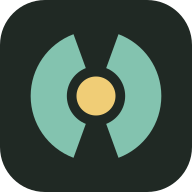
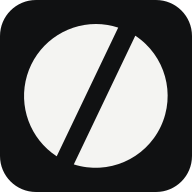
Refine Ithy.ai with a sharper monochrome identity

diff --git a/index.html b/index.html
@@ -3,7 +3,7 @@
 <head>
   <meta charset="utf-8">
   <meta name="viewport" content="width=device-width, initial-scale=1">
-  <meta name="theme-color" content="#f4f3ed">
+  <meta name="theme-color" content="#f4f4f2">
   <title>Ithy.ai — Intelligence, put to work.</title>
   <meta name="description" content="Ithy is building a family of focused businesses with AI at their core. Distinct brands. A shared operating foundation. Useful products for real problems.">
   <link rel="canonical" href="https://ithy.ai/">
@@ -12,31 +12,31 @@
   <meta property="og:site_name" content="Ithy.ai">
   <meta property="og:title" content="Ithy.ai — Intelligence, put to work.">
   <meta property="og:description" content="A different way to build and operate businesses. AI at the core. Real outcomes at the center.">
-  <meta property="og:image" content="https://ithy.ai/social-card.png">
+  <meta property="og:image" content="https://ithy.ai/social-card.png?v=20261024b">
   <meta property="og:image:width" content="1200">
   <meta property="og:image:height" content="630">
   <meta property="og:image:alt" content="Ithy.ai. Intelligence, put to work. Distinct businesses. Shared intelligence.">
   <meta name="twitter:card" content="summary_large_image">
   <meta name="twitter:title" content="Ithy.ai — Intelligence, put to work.">
   <meta name="twitter:description" content="A family of focused businesses. A shared AI operating foundation.">
-  <meta name="twitter:image" content="https://ithy.ai/social-card.png">
+  <meta name="twitter:image" content="https://ithy.ai/social-card.png?v=20261024b">
   <meta name="twitter:image:alt" content="Ithy.ai. Intelligence, put to work.">
   <meta name="application-name" content="Ithy.ai">
-  <link rel="icon" href="favicon.ico?v=20261024" sizes="16x16 32x32 48x48">
-  <link rel="icon" href="favicon-32x32.png?v=20261024" type="image/png" sizes="32x32">
-  <link rel="icon" href="favicon.svg?v=20261024" type="image/svg+xml" sizes="any">
-  <link rel="apple-touch-icon" href="apple-touch-icon.png" sizes="180x180">
-  <link rel="mask-icon" href="assets/pinned-tab.svg" color="#347c70">
-  <link rel="manifest" href="site.webmanifest">
+  <link rel="icon" href="favicon.ico?v=20261024b" sizes="16x16 32x32 48x48">
+  <link rel="icon" href="favicon-32x32.png?v=20261024b" type="image/png" sizes="32x32">
+  <link rel="icon" href="favicon.svg?v=20261024b" type="image/svg+xml" sizes="any">
+  <link rel="apple-touch-icon" href="apple-touch-icon.png?v=20261024b" sizes="180x180">
+  <link rel="mask-icon" href="assets/pinned-tab.svg?v=20261024b" color="#303438">
+  <link rel="manifest" href="site.webmanifest?v=20261024b">
   <style>
     :root {
       color-scheme: light;
-      --paper: #f4f3ed;
-      --ink: #202924;
-      --muted: #626a63;
-      --line: #d9ddd3;
-      --accent: #347c70;
-      --lime: #f0cd76;
+      --paper: #f4f4f2;
+      --ink: #101112;
+      --muted: #626466;
+      --line: #d9dbda;
+      --accent: #303438;
+      --highlight: #eceeec;
       --serif: Georgia, 'Times New Roman', serif;
       --sans: -apple-system, BlinkMacSystemFont, 'Segoe UI', Helvetica, Arial, sans-serif;
       --mono: 'SFMono-Regular', Consolas, 'Liberation Mono', monospace;
@@ -44,7 +44,7 @@
     *, *::before, *::after { box-sizing: border-box; }
     html { scroll-behavior: smooth; scroll-padding-top: 30px; }
     body { margin: 0; background: var(--paper); color: var(--ink); font-family: var(--sans); -webkit-font-smoothing: antialiased; }
-    ::selection { color: var(--ink); background: var(--lime); }
+    ::selection { color: var(--ink); background: var(--highlight); }
     a { color: inherit; text-decoration: none; }
     a:focus-visible, button:focus-visible { outline: 2px solid var(--accent); outline-offset: 6px; }
     svg { display: block; }
@@ -85,11 +85,11 @@
     .diagram-label { font: 10px var(--mono); fill: var(--muted); letter-spacing: .1em; }
     .diagram-small { font: 9px var(--mono); fill: var(--muted); letter-spacing: .07em; }
     .diagram-brand { font: 500 39px var(--sans); fill: var(--paper); letter-spacing: -.07em; }
-    .diagram-wire { fill: none; stroke: #b9c0b3; stroke-width: 1.2; }
+    .diagram-wire { fill: none; stroke: #bfc2c0; stroke-width: 1.2; }
     .diagram-signal { fill: none; stroke: var(--accent); stroke-width: 2; stroke-dasharray: 8 440; stroke-linecap: round; animation: flow 3.8s linear 1; }
     .signal-two { animation-delay: -.9s; }
     .signal-three { animation-delay: -1.8s; }
-    .diagram-loop { fill: none; stroke: #c6cbbb; stroke-width: 1; stroke-dasharray: 3 6; }
+    .diagram-loop { fill: none; stroke: #c8cbc9; stroke-width: 1; stroke-dasharray: 3 6; }
     .system figcaption { display: flex; align-items: center; justify-content: space-between; gap: 12px; border-top: 1px solid var(--line); padding-top: 17px; margin: 0 14px; font: 9px/1.6 var(--mono); letter-spacing: .07em; text-transform: uppercase; color: var(--muted); }
     .system figcaption span:last-child { color: var(--accent); }
     @keyframes flow { from { stroke-dashoffset: 448; } to { stroke-dashoffset: 0; } }
@@ -105,24 +105,24 @@
     .principle p { margin: 0; color: var(--muted); font-size: 13px; line-height: 1.8; }
     .model { position: relative; background: var(--ink); color: var(--paper); padding-block: 77px 64px; overflow: hidden; }
     .model-grid { display: grid; grid-template-columns: 1fr 1fr; column-gap: 92px; align-items: end; }
-    .model .eyebrow { color: var(--lime); margin-bottom: 33px; }
+    .model .eyebrow { color: var(--highlight); margin-bottom: 33px; }
     .model h2 { font-size: clamp(38px, 4vw, 57px); font-weight: 430; line-height: 1.1; letter-spacing: -.055em; margin: 0; }
-    .model h2 em { font-family: var(--serif); color: var(--lime); font-weight: 400; }
-    .model-description { max-width: 440px; margin: 0 0 4px; color: #bcc5bc; font-size: 16px; line-height: 1.85; }
-    .operating-cycle { display: grid; grid-template-columns: repeat(4, 1fr); margin-top: 59px; border-top: 1px solid #485148; border-bottom: 1px solid #485148; }
+    .model h2 em { font-family: var(--serif); color: var(--highlight); font-weight: 400; }
+    .model-description { max-width: 440px; margin: 0 0 4px; color: #c3c7c5; font-size: 16px; line-height: 1.85; }
+    .operating-cycle { display: grid; grid-template-columns: repeat(4, 1fr); margin-top: 59px; border-top: 1px solid #414644; border-bottom: 1px solid #414644; }
     .cycle-step { position: relative; padding: 26px 18px 27px 0; }
-    .cycle-step:not(:first-child) { padding-left: 26px; border-left: 1px solid #485148; }
-    .cycle-step small { display: block; color: #9aa59b; font: 9px/1.5 var(--mono); letter-spacing: .08em; margin-bottom: 14px; }
+    .cycle-step:not(:first-child) { padding-left: 26px; border-left: 1px solid #414644; }
+    .cycle-step small { display: block; color: #a2a7a4; font: 9px/1.5 var(--mono); letter-spacing: .08em; margin-bottom: 14px; }
     .cycle-step strong { display: block; font-size: 19px; font-weight: 450; letter-spacing: -.025em; }
-    .cycle-step .step-arrow { position: absolute; right: 23px; top: 58px; width: 16px; height: 16px; color: var(--lime); }
-    .model-foot { display: flex; justify-content: space-between; gap: 20px; color: #a2ada3; font: 10px/1.8 var(--mono); margin-top: 21px; }
-    .model-foot span:last-child { color: var(--lime); }
+    .cycle-step .step-arrow { position: absolute; right: 23px; top: 58px; width: 16px; height: 16px; color: var(--highlight); }
+    .model-foot { display: flex; justify-content: space-between; gap: 20px; color: #aeb3b0; font: 10px/1.8 var(--mono); margin-top: 21px; }
+    .model-foot span:last-child { color: var(--highlight); }
     .companies { padding-block: 78px 86px; }
     .companies-heading { display: grid; grid-template-columns: 1fr 2.15fr; gap: 60px; margin-bottom: 33px; }
     .companies h2 { font-size: clamp(32px, 3.5vw, 46px); font-weight: 450; line-height: 1.2; letter-spacing: -.045em; margin: 0; }
     .company-row { display: flex; align-items: center; gap: 30px; padding: 28px 0; border-block: 1px solid var(--line); transition: border-color .2s; }
     .company-row:hover { border-color: var(--accent); }
-    .company-mark { width: 60px; height: 60px; padding: 15px; display: grid; place-items: center; flex: 0 0 auto; background: #e6e9df; }
+    .company-mark { width: 60px; height: 60px; padding: 15px; display: grid; place-items: center; flex: 0 0 auto; background: #e7e9e6; }
     .company-name { font-size: 37px; font-weight: 500; letter-spacing: -.065em; margin: 0; }
     .company-name span { font-weight: 400; color: var(--muted); }
     .company-identity { display: grid; gap: 7px; }
@@ -135,19 +135,19 @@
     .private-work p { margin: 0; }
     .private-label { display: inline-flex; align-items: center; gap: 9px; white-space: nowrap; font: 9px/1.6 var(--mono); letter-spacing: .08em; text-transform: uppercase; }
     .private-label::before { content: ''; display: block; width: 5px; height: 5px; background: var(--accent); }
-    .contact { background: #e4e9df; padding: 66px 0 70px; }
+    .contact { background: #e7e9e6; padding: 66px 0 70px; }
     .contact-grid { display: grid; grid-template-columns: 1.2fr 1fr; gap: 70px; align-items: end; }
     .contact .eyebrow { margin-bottom: 31px; }
     .contact h2 { margin: 0; font-size: clamp(44px, 5vw, 69px); font-weight: 440; line-height: 1.08; letter-spacing: -.06em; }
     .contact h2 em { font-family: var(--serif); font-weight: 400; }
-    .contact-copy p { max-width: 385px; font-size: 16px; line-height: 1.8; color: #4f594a; margin: 0 0 25px; }
+    .contact-copy p { max-width: 385px; font-size: 16px; line-height: 1.8; color: #4d5350; margin: 0 0 25px; }
     .contact-copy .button { gap: 48px; }
-    .contact-email { display: block; width: fit-content; margin-top: 20px; color: #4f594a; font: 12px/1.7 var(--mono); border-bottom: 1px solid #b6be9d; }
+    .contact-email { display: block; width: fit-content; margin-top: 20px; color: #4d5350; font: 12px/1.7 var(--mono); border-bottom: 1px solid #b9bfbb; }
     .contact-email:hover { color: var(--ink); border-color: var(--ink); }
     .contact-tools { display: flex; align-items: center; gap: 18px; flex-wrap: wrap; margin-top: 16px; }
     .contact-tools .contact-email { display: inline-flex; align-items: center; margin-top: 0; min-height: 44px; border-bottom: none; text-decoration: underline; text-underline-offset: 5px; }
-    .copy-email { min-height: 44px; padding: 8px 12px; border: 1px solid #b2beac; border-radius: 0; color: #3d4b3d; background: transparent; cursor: pointer; font: 11px var(--mono); }
-    .copy-email:hover { background: #d6dfcf; }
+    .copy-email { min-height: 44px; padding: 8px 12px; border: 1px solid #b8bfba; border-radius: 0; color: #3c4540; background: transparent; cursor: pointer; font: 11px var(--mono); }
+    .copy-email:hover { background: #d8ded9; }
     .copy-status { min-height: 18px; margin: 3px 0 0 !important; font: 11px/1.6 var(--mono) !important; }
     .back-top { min-height: 44px; display: inline-flex; align-items: center; gap: 10px; }
     .site-footer { display: flex; align-items: center; justify-content: space-between; flex-wrap: wrap; gap: 20px; padding-block: 29px; font-size: 11px; color: var(--muted); }
@@ -238,7 +238,7 @@
       .model h2 { font-size: 39px; }
       .operating-cycle { grid-template-columns: repeat(2, 1fr); }
       .cycle-step:nth-child(odd) { padding-left: 0; border-left: 0; }
-      .cycle-step:nth-child(n+3) { border-top: 1px solid #485148; }
+      .cycle-step:nth-child(n+3) { border-top: 1px solid #414644; }
       .model-foot { flex-direction: column; gap: 5px; }
       .contact h2 { font-size: 44px; }
       .footer-legal { gap: 12px; }
@@ -257,14 +257,14 @@
     }
   </style>
   <script type="application/ld+json">
-    {"@context":"https://schema.org","@type":"Organization","name":"Ithy","alternateName":"Ithy.ai","legalName":"Ithy, Inc.","url":"https://ithy.ai/","logo":"https://ithy.ai/icon-512.png","description":"A family of focused businesses, with AI at the core of the product and the operation.","email":"wluk@ithy.ai","sameAs":["https://ithy.com/"]}
+    {"@context":"https://schema.org","@type":"Organization","name":"Ithy","alternateName":"Ithy.ai","legalName":"Ithy, Inc.","url":"https://ithy.ai/","logo":"https://ithy.ai/icon-512.png?v=20261024b","description":"A family of focused businesses, with AI at the core of the product and the operation.","email":"wluk@ithy.ai","sameAs":["https://ithy.com/"]}
   </script>
 </head>
 <body id="top">
   <a class="skip" href="#main">Skip to content</a>
   <header class="site-header wrap">
     <a class="brand" href="#top" aria-label="Ithy.ai home">
-      <img class="brand-symbol" src="assets/brand.svg" width="37" height="37" alt="">
+      <img class="brand-symbol" src="assets/brand.svg?v=20261024b" width="37" height="37" alt="">
       <span class="wordmark">ithy<span>.ai</span></span>
     </a>
     <nav class="nav" aria-label="Main navigation">
@@ -291,7 +291,7 @@
           <title id="system-title">One foundation. Independent businesses.</title>
           <desc id="system-description">A conceptual diagram of Ithy’s operating model: one shared AI foundation connecting distinct brands. Abstract shapes illustrate the structure, not specific projects.</desc>
           <defs>
-            <pattern id="dots" x="0" y="0" width="22" height="22" patternUnits="userSpaceOnUse"><circle cx="1" cy="1" r=".7" fill="#c6cdbe"/></pattern>
+            <pattern id="dots" x="0" y="0" width="22" height="22" patternUnits="userSpaceOnUse"><circle cx="1" cy="1" r=".7" fill="#d0d4d0"/></pattern>
             <path id="left-route" d="M255 281v40q0 18-18 18H109q-18 0-18 18v31"/>
             <path id="center-route" d="M280 281v107"/>
             <path id="right-route" d="M305 281v40q0 18 18 18h128q18 0 18 18v31"/>
@@ -301,37 +301,36 @@
           <path class="diagram-loop" d="M280 481v-21"/>
           <text x="280" y="86" text-anchor="middle" class="diagram-label">ONE OPERATING COMPANY</text>
           <path class="diagram-wire" d="M280 104v31"/>
-          <circle cx="280" cy="104" r="2" fill="#347c70"/>
+          <circle cx="280" cy="104" r="2" fill="#303438"/>
           <use href="#left-route" class="diagram-wire"/>
           <use href="#center-route" class="diagram-wire"/>
           <use href="#right-route" class="diagram-wire"/>
           <use href="#left-route" class="diagram-signal"/>
           <use href="#center-route" class="diagram-signal signal-two"/>
           <use href="#right-route" class="diagram-signal signal-three"/>
-          <rect x="207" y="137" width="146" height="145" fill="#e5e8dc" stroke="#b8c1af"/>
-          <rect x="199" y="129" width="146" height="145" fill="#202924"/>
+          <rect x="207" y="137" width="146" height="145" fill="#e1e4df" stroke="#b9bfba"/>
+          <rect x="199" y="129" width="146" height="145" fill="#101112"/>
           <g transform="translate(216 139) scale(.55)">
-            <path d="M24.5 11.4a22 22 0 0 0 0 41.2l4.1-11.3a10 10 0 0 1 0-18.6Zm15 0a22 22 0 0 1 0 41.2l-4.1-11.3a10 10 0 0 0 0-18.6Z" fill="#83c3af"/>
-            <circle cx="32" cy="32" r="6.5" fill="#f0cd76"/>
+            <path d="M32 8A24 24 0 0 0 18.9 52.1L39.4 9.2A24 24 0 0 0 32 8ZM45.1 11.9 24.6 54.8A24 24 0 0 0 45.1 11.9Z" fill="#f4f4f2"/>
           </g>
           <text class="diagram-brand" x="219" y="228">ithy</text>
-          <path d="M219 245h105" stroke="#67725f" stroke-width=".7"/>
-          <text x="220" y="260" font-family="monospace" font-size="7.5" fill="#bfcbb4" letter-spacing="1.2">SHARED INTELLIGENCE</text>
+          <path d="M219 245h105" stroke="#626a64" stroke-width=".7"/>
+          <text x="220" y="260" font-family="monospace" font-size="7.5" fill="#c5cbc5" letter-spacing="1.2">SHARED INTELLIGENCE</text>
           <path d="M345 177h49" class="diagram-wire"/>
-          <circle cx="394" cy="177" r="2" fill="#347c70"/>
+          <circle cx="394" cy="177" r="2" fill="#303438"/>
           <text x="404" y="173" class="diagram-small">HUMAN DIRECTION</text>
           <text x="404" y="188" class="diagram-small">AGENT EXECUTION</text>
-          <rect x="56" y="389" width="70" height="70" rx="2" fill="#f4f3ed" stroke="#b8c1af"/>
-          <circle cx="91" cy="424" r="17" fill="none" stroke="#347c70" stroke-width="10"/>
-          <path d="M91 399v50m-25-25h50" stroke="#f4f3ed" stroke-width="2.5"/>
-          <rect x="245" y="389" width="70" height="70" rx="2" fill="#f4f3ed" stroke="#b8c1af"/>
-          <path d="M260 409h18v18h-18zm23 0h18v18h-18zm-23 23h18v11h-18zm23 0h18v11h-18z" fill="#347c70"/>
-          <rect x="434" y="389" width="70" height="70" rx="2" fill="#f4f3ed" stroke="#b8c1af"/>
-          <path d="m469 403 20 21-20 21-20-21z" fill="#347c70"/>
-          <path d="M469 411v26m-13-13h26" stroke="#f4f3ed" stroke-width="2"/>
-          <rect x="208" y="470" width="144" height="22" fill="#f4f3ed"/>
+          <rect x="56" y="389" width="70" height="70" rx="2" fill="#f4f4f2" stroke="#b9bfba"/>
+          <circle cx="91" cy="424" r="17" fill="none" stroke="#303438" stroke-width="10"/>
+          <path d="M91 399v50m-25-25h50" stroke="#f4f4f2" stroke-width="2.5"/>
+          <rect x="245" y="389" width="70" height="70" rx="2" fill="#f4f4f2" stroke="#b9bfba"/>
+          <path d="M260 409h18v18h-18zm23 0h18v18h-18zm-23 23h18v11h-18zm23 0h18v11h-18z" fill="#303438"/>
+          <rect x="434" y="389" width="70" height="70" rx="2" fill="#f4f4f2" stroke="#b9bfba"/>
+          <path d="m469 403 20 21-20 21-20-21z" fill="#303438"/>
+          <path d="M469 411v26m-13-13h26" stroke="#f4f4f2" stroke-width="2"/>
+          <rect x="208" y="470" width="144" height="22" fill="#f4f4f2"/>
           <text x="280" y="484" text-anchor="middle" class="diagram-small">DISTINCT BUSINESSES</text>
-          <path d="M19 42V28h14m494 0h14v14M19 482v14h14m494 0h14v-14" fill="none" stroke="#8d9b83"/>
+          <path d="M19 42V28h14m494 0h14v14M19 482v14h14m494 0h14v-14" fill="none" stroke="#939c95"/>
         </svg>
         <figcaption><span>Independent brands</span><span>Connected by design ↗</span></figcaption>
       </figure>
@@ -349,7 +348,7 @@
             <p>A useful result and a reason to choose it. That’s where every business begins.</p>
           </article>
           <article class="principle">
-            <svg class="principle-icon" viewBox="0 0 24 24" fill="none" stroke="currentColor" stroke-width="1.3" aria-hidden="true"><path d="M3 5h18M3 12h18M3 19h18"/><rect x="6" y="2" width="4" height="6" fill="#f4f3ed"/><rect x="15" y="9" width="4" height="6" fill="#f4f3ed"/><rect x="8" y="16" width="4" height="6" fill="#f4f3ed"/></svg>
+            <svg class="principle-icon" viewBox="0 0 24 24" fill="none" stroke="currentColor" stroke-width="1.3" aria-hidden="true"><path d="M3 5h18M3 12h18M3 19h18"/><rect x="6" y="2" width="4" height="6" fill="#f4f4f2"/><rect x="15" y="9" width="4" height="6" fill="#f4f4f2"/><rect x="8" y="16" width="4" height="6" fill="#f4f4f2"/></svg>
             <h3>Automation throughout.</h3>
             <p>Agents across development, customer acquisition, delivery, and support. People set direction and make consequential decisions.</p>
           </article>
@@ -415,7 +414,7 @@
   </main>
 
   <footer class="site-footer wrap">
-    <div class="footer-legal"><img class="brand-symbol" src="assets/brand.svg" width="19" height="19" alt=""><span>© 2026 Ithy, Inc.</span></div>
+    <div class="footer-legal"><img class="brand-symbol" src="assets/brand.svg?v=20261024b" width="19" height="19" alt=""><span>© 2026 Ithy, Inc.</span></div>
     <a class="footer-note back-top" href="#top">Back to top <span aria-hidden="true">↑</span></a>
   </footer>
   <script>

diff --git a/404.html b/404.html
@@ -4,26 +4,26 @@
   <meta charset="utf-8">
   <meta name="viewport" content="width=device-width,initial-scale=1">
   <meta name="robots" content="noindex">
-  <meta name="theme-color" content="#f4f3ed">
+  <meta name="theme-color" content="#f4f4f2">
   <title>Page not found — Ithy.ai</title>
-  <link rel="icon" href="/favicon.ico?v=20261024" sizes="16x16 32x32 48x48">
-  <link rel="icon" href="/favicon.svg?v=20261024" type="image/svg+xml">
+  <link rel="icon" href="/favicon.ico?v=20261024b" sizes="16x16 32x32 48x48">
+  <link rel="icon" href="/favicon.svg?v=20261024b" type="image/svg+xml">
   <style>
     * { box-sizing: border-box; }
-    body { margin: 0; min-height: 100svh; display: grid; place-items: center; padding: 28px; color: #202924; background: #f4f3ed; font-family: -apple-system,BlinkMacSystemFont,'Segoe UI',Helvetica,Arial,sans-serif; }
+    body { margin: 0; min-height: 100svh; display: grid; place-items: center; padding: 28px; color: #101112; background: #f4f4f2; font-family: -apple-system,BlinkMacSystemFont,'Segoe UI',Helvetica,Arial,sans-serif; }
     main { width: min(560px,100%); }
     img { display: block; width: 64px; height: 64px; margin-bottom: 48px; }
-    p { color: #626a63; line-height: 1.75; }
-    .label { font: 11px monospace; letter-spacing: .12em; color: #347c70; }
+    p { color: #626466; line-height: 1.75; }
+    .label { font: 11px monospace; letter-spacing: .12em; color: #303438; }
     h1 { font-size: clamp(40px,8vw,64px); font-weight: 450; letter-spacing: -.05em; line-height: 1.1; }
-    a { display: inline-flex; align-items: center; min-height: 48px; margin-top: 20px; padding: 12px 22px; background: #202924; color: #f4f3ed; text-decoration: none; }
-    a:hover { background: #347c70; }
-    a:focus-visible { outline: 2px solid #347c70; outline-offset: 5px; }
+    a { display: inline-flex; align-items: center; min-height: 48px; margin-top: 20px; padding: 12px 22px; background: #101112; color: #f4f4f2; text-decoration: none; }
+    a:hover { background: #303438; }
+    a:focus-visible { outline: 2px solid #303438; outline-offset: 5px; }
   </style>
 </head>
 <body>
   <main>
-    <img src="/assets/brand.svg" alt="Ithy.ai" width="64" height="64">
+    <img src="/assets/brand.svg?v=20261024b" alt="Ithy.ai" width="64" height="64">
     <p class="label">404 / PAGE NOT FOUND</p>
     <h1>A different<br>way back.</h1>
     <p>This page isn’t here. You can find our approach, our public work and a way to reach us on the homepage.</p>

diff --git a/README.md b/README.md
@@ -10,6 +10,6 @@ GitHub Pages publishes `main` from the repository root. The custom domain is `it
 
 Edit `index.html` and push to `main`. No dependency install or build is required. The page uses local SVG/PNG/ICO brand assets, inline CSS and a small progressive-enhancement script for copying the contact email. It has no analytics, external fonts or third-party scripts.
 
-`favicon.svg` is the editable favicon source. `assets/brand.svg` is the transparent site mark; the related gold/teal geometry is distinct from the original Ithy.com logo. Browser icons, Apple touch icon, web manifest and social preview are served as ordinary static files. `robots.txt` and `sitemap.xml` identify the canonical public page.
+`favicon.svg` is the editable favicon source. `assets/brand.svg` is the transparent site mark: a monochrome circle divided by a sharp diagonal cut, carrying forward Ithy’s circular origins as a separate identity. Browser icons, Apple touch icon, web manifest and social preview are served as ordinary static files. `robots.txt` and `sitemap.xml` identify the canonical public page.
 
 Contact links point to `wluk@ithy.ai`. The public business link points to `https://ithy.com/`.
